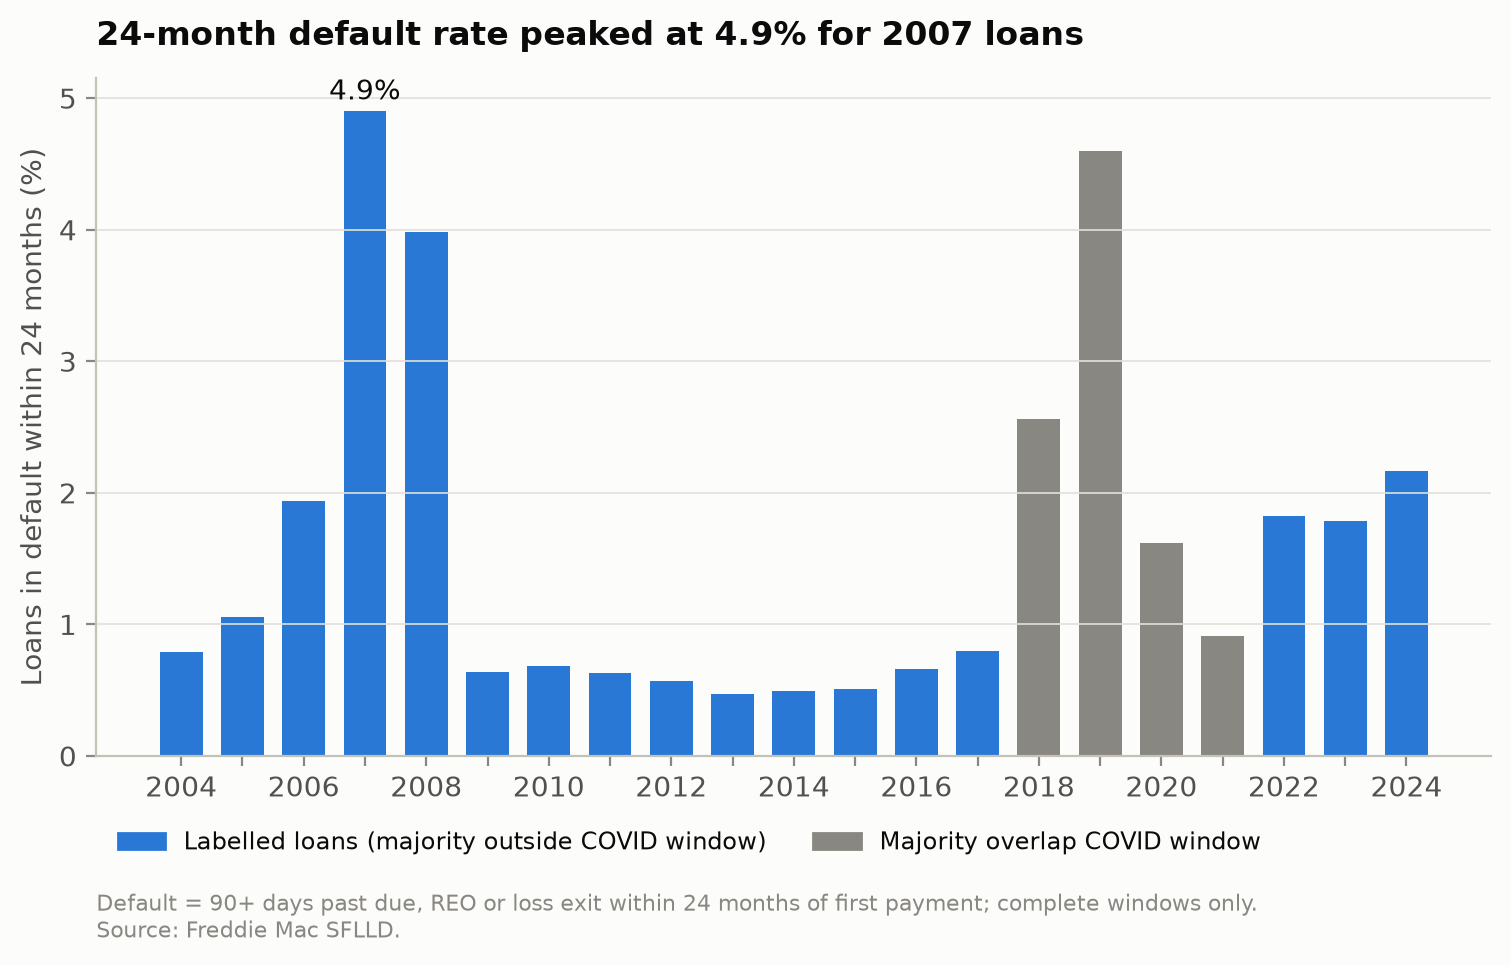
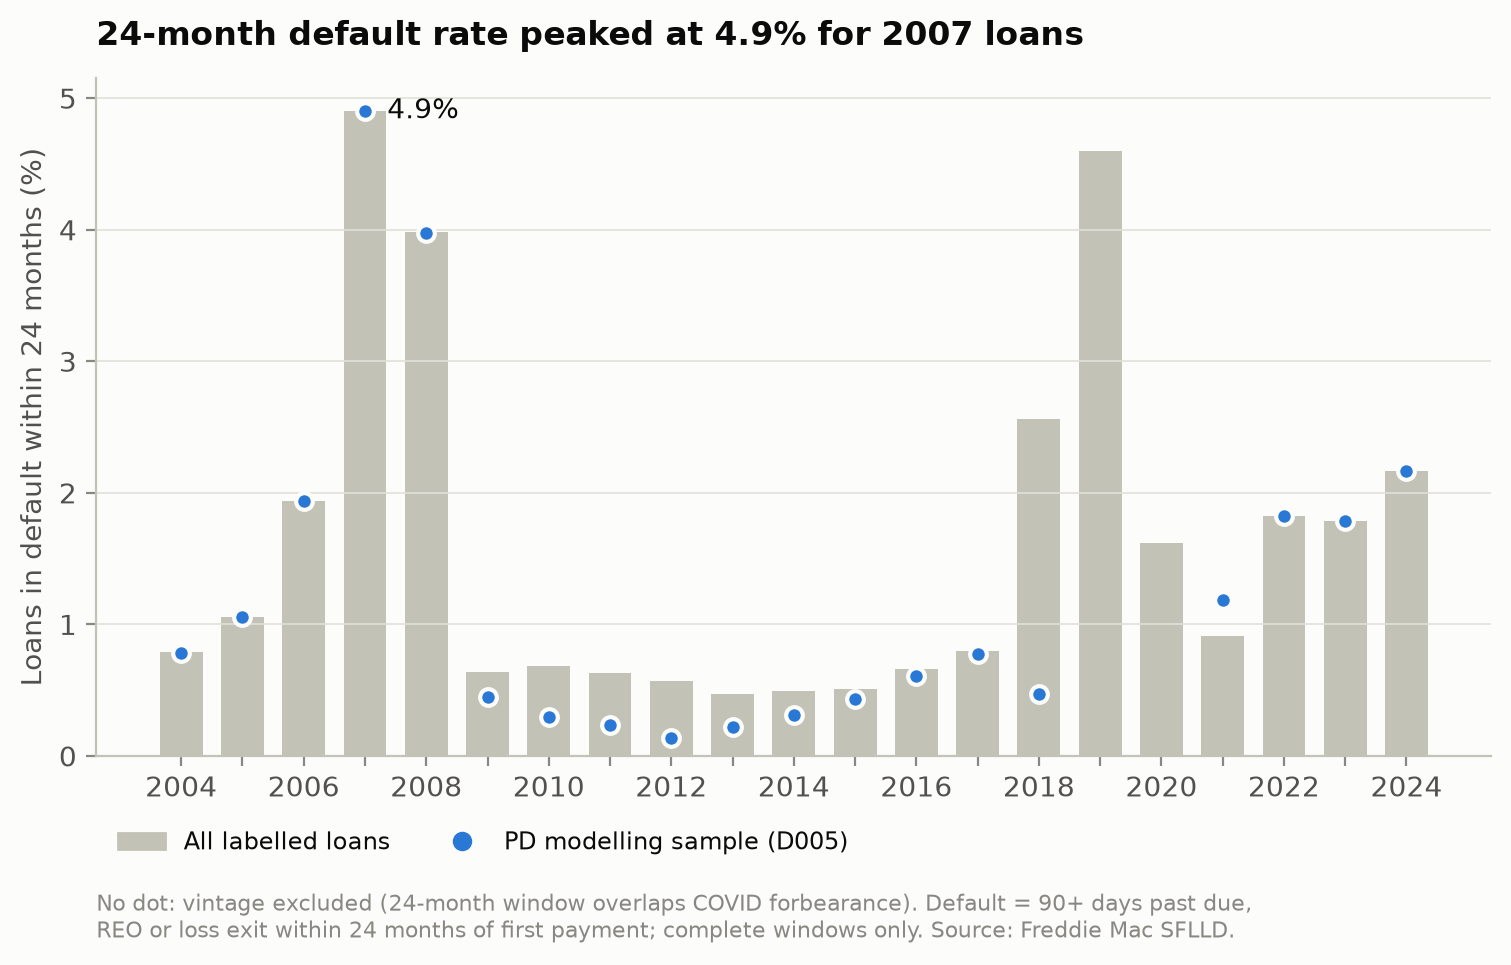
Add information-availability lag to exposure; show PD-sample default rates (D011)

Changed region(s): [[0.0933, 0.0622, 0.9643, 0.8083], [0.0622, 0.8394, 0.8398, 0.9948]]

diff --git a/src/climrisk/viz/eda.py b/src/climrisk/viz/eda.py
@@ -112,7 +112,9 @@ def default_by_vintage(con: duckdb.DuckDBPyConnection) -> list[tuple]:
                count(default_24m) AS labelled,
                sum(default_24m) AS defaults,
                100.0 * avg(default_24m) AS default_rate_pct,
-               avg(overlaps_covid::INT) > 0.5 AS covid_window  -- most loans excluded
+               avg(overlaps_covid::INT) > 0.5 AS covid_window,  -- most loans excluded
+               count(*) FILTER (WHERE in_pd_sample) AS pd_loans,
+               100.0 * avg(default_24m) FILTER (WHERE in_pd_sample) AS pd_default_rate_pct
         FROM loans GROUP BY vintage HAVING count(default_24m) > 0 ORDER BY vintage
     """).fetchall()
 
@@ -223,28 +225,46 @@ def _save(fig, path: Path) -> None:
 
 
 def fig_default_by_vintage(rows: list[tuple], path: Path) -> None:
+    """Bars: all labelled loans. Dots: PD modelling sample (the population the models use)."""
+    from matplotlib.lines import Line2D
     from matplotlib.patches import Patch
 
     fig, ax = plt.subplots(figsize=(9, 4.4))
     vintages = [r[0] for r in rows]
-    colors = [COLORS["muted"] if r[4] else COLORS["focus"] for r in rows]
-    ax.bar(vintages, [r[3] for r in rows], color=colors, width=0.7)
-    peak = max((r for r in rows if not r[4]), key=lambda r: r[3])
+    ax.bar(vintages, [r[3] for r in rows], color=COLORS["axis"], width=0.7, zorder=1)
+    pd_rows = [r for r in rows if r[5] and r[6] is not None]
+    ax.scatter(
+        [r[0] for r in pd_rows],
+        [r[6] for r in pd_rows],
+        s=36,
+        color=COLORS["focus"],
+        edgecolors=COLORS["surface"],
+        linewidths=1.5,
+        zorder=3,
+    )
+    peak = max(pd_rows, key=lambda r: r[6])
     ax.annotate(
-        f"{peak[3]:.1f}%",
-        (peak[0], peak[3]),
-        xytext=(0, 4),
+        f"{peak[6]:.1f}%",
+        (peak[0], peak[6]),
+        xytext=(8, 0),
         textcoords="offset points",
-        ha="center",
+        va="center",
         color=COLORS["ink"],
     )
-    ax.set_title(f"24-month default rate peaked at {peak[3]:.1f}% for {peak[0]} loans")
+    ax.set_title(f"24-month default rate peaked at {peak[6]:.1f}% for {peak[0]} loans")
     ax.set_ylabel("Loans in default within 24 months (%)")
     ax.set_xticks(vintages, [str(v) if v % 2 == 0 else "" for v in vintages])
     ax.legend(
         handles=[
-            Patch(color=COLORS["focus"], label="Labelled loans (majority outside COVID window)"),
-            Patch(color=COLORS["muted"], label="Majority overlap COVID window"),
+            Patch(color=COLORS["axis"], label="All labelled loans"),
+            Line2D(
+                [],
+                [],
+                marker="o",
+                linestyle="",
+                color=COLORS["focus"],
+                label="PD modelling sample (D005)",
+            ),
         ],
         loc="upper left",
         bbox_to_anchor=(0, -0.08),
@@ -254,9 +274,9 @@ def fig_default_by_vintage(rows: list[tuple], path: Path) -> None:
     ax.text(
         0,
         -0.2,
-        "Default = 90+ days past due, REO or loss exit within 24 months of "
-        "first payment; complete windows only.\n"
-        "Source: Freddie Mac SFLLD.",
+        "No dot: vintage excluded (24-month window overlaps COVID forbearance). Default = 90+ "
+        "days past due,\nREO or loss exit within 24 months of first payment; complete windows "
+        "only. Source: Freddie Mac SFLLD.",
         va="top",
         transform=ax.transAxes,
         color=COLORS["muted"],
@@ -491,9 +511,17 @@ def run(
         "## 1. Default rate by vintage",
         f"![Default rate by vintage]({rel / 'fig1_default_by_vintage.png'})",
         md_table(
-            ["vintage", "labelled", "defaults", "default_rate_pct", "covid_window"],
+            [
+                "vintage",
+                "labelled",
+                "defaults",
+                "default_rate_pct",
+                "covid_window",
+                "pd_loans",
+                "pd_default_rate_pct",
+            ],
             vintage,
-            {3: pct},
+            {3: pct, 6: pct},
         ),
         "## 2. Climate disasters by year",
         f"![Disasters by year]({rel / 'fig2_disasters_by_year.png'})",

diff --git a/tests/test_climate.py b/tests/test_climate.py
@@ -55,7 +55,12 @@ def fema_csv() -> str:
 
 def config() -> dict:
     cfg = climate.load_config()
-    cfg["exposure"] = {"lookback_months": 3, "grid_start": "2017-06-01", "grid_end": "2018-01-01"}
+    cfg["exposure"] = {
+        "lookback_months": 3,
+        "availability_lag_months": 0,
+        "grid_start": "2017-06-01",
+        "grid_end": "2018-01-01",
+    }
     return cfg
 
 
@@ -145,3 +150,20 @@ def test_post_2010_county_codes_are_recoded(built):
 def test_manual_zip3_follows_its_county(built):
     rows = climate_rows(built, "772")  # Houston P.O. boxes -> Harris County
     assert rows[date(2017, 9, 1)][0] == pytest.approx(1.0)
+
+
+def test_availability_lag_delays_exposure(tmp_path):
+    raw, geo = tmp_path / "raw", tmp_path / "geo"
+    raw.mkdir()
+    (raw / "crosswalk.txt").write_text(CROSSWALK)
+    (raw / "fema.csv").write_text(fema_csv())
+    census.parse(raw / "crosswalk.txt", geo / "zcta_county.parquet")
+    fema.parse(raw / "fema.csv", tmp_path / "declarations.parquet")
+    cfg = config()
+    cfg["exposure"]["availability_lag_months"] = 1
+    out = tmp_path / "processed"
+    climate.run(geo, tmp_path / "declarations.parquet", out, tmp_path / "s.md", cfg)
+    exposure = {m: r[4] for m, r in climate_rows(out, "770").items()}
+    assert exposure[date(2017, 9, 1)] == pytest.approx(0)
+    assert exposure[date(2017, 10, 1)] == pytest.approx(2 / 3)
+    assert exposure[date(2018, 1, 1)] == pytest.approx(2 / 3)  # September still counts

diff --git a/src/climrisk/features/climate.py b/src/climrisk/features/climate.py
@@ -14,7 +14,7 @@ Outputs:
         zip3, month,
         hit_share_<def>   share of the ZIP3's housing in counties hit that month (0-1)
         events_<def>      expected number of disasters hitting a home that month
-        exposure_<def>    sum of events_<def> over the previous lookback_months
+        exposure_<def>    lagged rolling sum of events_<def> (D011)
     reports/climate_summary.md
 for <def> in {main, broad} (configs/climate.yaml).
 
@@ -105,6 +105,7 @@ WHERE declaration_type IN ({sql_codes(cfg["events"]["declaration_types"])})
 def climate_query(cfg: dict) -> str:
     e = cfg["exposure"]
     lookback = int(e["lookback_months"])
+    lag = int(e.get("availability_lag_months", 0))
     hits = []
     for d in DEFINITIONS:
         hits.append(f"""
@@ -128,7 +129,7 @@ hits_{d} AS (
     )
     exposure = ",\n    ".join(
         f"coalesce(sum(events_{d}) OVER (PARTITION BY zip3 ORDER BY month "
-        f"ROWS BETWEEN {lookback} PRECEDING AND 1 PRECEDING), 0) AS exposure_{d}"
+        f"ROWS BETWEEN {lookback + lag} PRECEDING AND {lag + 1} PRECEDING), 0) AS exposure_{d}"
         for d in DEFINITIONS
     )
     return f"""

diff --git a/tests/test_eda.py b/tests/test_eda.py
@@ -101,3 +101,19 @@ def test_run_writes_all_figures_and_tables(processed, tmp_path):
     ]
     assert report.read_text().count("![") == 5
     assert "| vintage |" in report.read_text()
+
+
+def test_vintage_rates_separate_labelled_and_pd_populations():
+    with duckdb.connect() as con:
+        con.execute("""
+            CREATE TABLE loans AS SELECT * FROM (VALUES
+                (2007, 1, false, true), (2007, 0, false, true),
+                (2007, 1, false, false), (2007, NULL, false, false),
+                (2020, 0, true, false))
+                l(vintage, default_24m, overlaps_covid, in_pd_sample)
+        """)
+        rows = eda.default_by_vintage(con)
+    assert rows[0][1:3] == (3, 2)
+    assert rows[0][3] == pytest.approx(200 / 3)
+    assert rows[0][5:] == (2, 50.0)
+    assert rows[1][5:] == (0, None)

diff --git a/reports/eda.md b/reports/eda.md
@@ -6,29 +6,29 @@ Generated by `python -m climrisk.viz.eda`. Raw descriptive patterns; causal esti
 
 ![Default rate by vintage](figures/fig1_default_by_vintage.png)
 
-| vintage | labelled | defaults | default_rate_pct | covid_window |
-|---|---|---|---|---|
-| 2004 | 49935 | 394 | 0.79 | False |
-| 2005 | 49939 | 526 | 1.05 | False |
-| 2006 | 49930 | 968 | 1.94 | False |
-| 2007 | 49919 | 2449 | 4.91 | False |
-| 2008 | 49891 | 1986 | 3.98 | False |
-| 2009 | 49898 | 317 | 0.64 | False |
-| 2010 | 49930 | 343 | 0.69 | False |
-| 2011 | 49898 | 316 | 0.63 | False |
-| 2012 | 49897 | 284 | 0.57 | False |
-| 2013 | 49930 | 234 | 0.47 | False |
-| 2014 | 49913 | 247 | 0.49 | False |
-| 2015 | 49953 | 253 | 0.51 | False |
-| 2016 | 49930 | 330 | 0.66 | False |
-| 2017 | 49896 | 397 | 0.80 | False |
-| 2018 | 49869 | 1279 | 2.56 | True |
-| 2019 | 49875 | 2292 | 4.60 | True |
-| 2020 | 49876 | 807 | 1.62 | True |
-| 2021 | 49886 | 456 | 0.91 | True |
-| 2022 | 49737 | 908 | 1.83 | False |
-| 2023 | 49719 | 886 | 1.78 | False |
-| 2024 | 7434 | 161 | 2.17 | False |
+| vintage | labelled | defaults | default_rate_pct | covid_window | pd_loans | pd_default_rate_pct |
+|---|---|---|---|---|---|---|
+| 2004 | 49935 | 394 | 0.79 | False | 49860 | 0.78 |
+| 2005 | 49939 | 526 | 1.05 | False | 49890 | 1.05 |
+| 2006 | 49930 | 968 | 1.94 | False | 49891 | 1.93 |
+| 2007 | 49919 | 2449 | 4.91 | False | 49875 | 4.90 |
+| 2008 | 49891 | 1986 | 3.98 | False | 49865 | 3.98 |
+| 2009 | 49898 | 317 | 0.64 | False | 44542 | 0.45 |
+| 2010 | 49930 | 343 | 0.69 | False | 35307 | 0.30 |
+| 2011 | 49898 | 316 | 0.63 | False | 34449 | 0.23 |
+| 2012 | 49897 | 284 | 0.57 | False | 32520 | 0.14 |
+| 2013 | 49930 | 234 | 0.47 | False | 35551 | 0.22 |
+| 2014 | 49913 | 247 | 0.49 | False | 42618 | 0.31 |
+| 2015 | 49953 | 253 | 0.51 | False | 45927 | 0.43 |
+| 2016 | 49930 | 330 | 0.66 | False | 47400 | 0.61 |
+| 2017 | 49896 | 397 | 0.80 | False | 48018 | 0.77 |
+| 2018 | 49869 | 1279 | 2.56 | True | 3405 | 0.47 |
+| 2019 | 49875 | 2292 | 4.60 | True | 0 |  |
+| 2020 | 49876 | 807 | 1.62 | True | 0 |  |
+| 2021 | 49886 | 456 | 0.91 | True | 7934 | 1.18 |
+| 2022 | 49737 | 908 | 1.83 | False | 49735 | 1.83 |
+| 2023 | 49719 | 886 | 1.78 | False | 49719 | 1.78 |
+| 2024 | 7434 | 161 | 2.17 | False | 7434 | 2.17 |
 
 ## 2. Climate disasters by year
 
@@ -170,8 +170,8 @@ Generated by `python -m climrisk.viz.eda`. Raw descriptive patterns; causal esti
 
 | exposure_band | loans | defaults | default_rate_pct |
 |---|---|---|---|
-| 0: none | 321916 | 3962 | 1.23 |
-| 1: (0, 0.5] | 74551 | 987 | 1.32 |
-| 2: (0.5, 1.5] | 189862 | 2434 | 1.28 |
-| 3: (1.5, 3] | 120005 | 1640 | 1.37 |
-| 4: >3 | 27392 | 848 | 3.10 |
+| 0: none | 320983 | 3943 | 1.23 |
+| 1: (0, 0.5] | 74094 | 992 | 1.34 |
+| 2: (0.5, 1.5] | 190833 | 2500 | 1.31 |
+| 3: (1.5, 3] | 120669 | 1572 | 1.30 |
+| 4: >3 | 27147 | 864 | 3.18 |

diff --git a/DECISIONS.md b/DECISIONS.md
@@ -201,7 +201,8 @@ Record the date, context, alternatives, rationale and consequences for each deci
 
 - Use expected qualifying disasters per home over the preceding 120 months,
   weighted by ZIP3-county housing allocation; exclude the current month.
-- Grid starts January 1990, providing a full lookback from January 2000 onward.
+- Grid starts January 1990; with the three-month availability lag (D011), a full
+  120-month lookback is available from April 2000 onward.
 - The user reports NRI download restrictions from Switzerland; these have not
   been independently reproduced. A recent NRI snapshot also cannot represent
   information contemporaneously available for early loan vintages.
@@ -212,3 +213,15 @@ Record the date, context, alternatives, rationale and consequences for each deci
   at origination. Assess declaration-date lags and historical-weight sensitivity.
 - ZCTA housing counts approximate USPS ZIP geography. ZIP3 aggregation cannot
   identify which individual properties were affected or establish causal effects.
+
+## D011 — Information availability
+
+- Exposure excludes the current month and the three most recent completed months
+  (`availability_lag_months: 3`), allowing for FEMA county additions after an event.
+- Exact window at month t: t-123 through t-4 inclusive (120 months). This conservative
+  boundary follows the lagged rolling-window implementation; it does not include t-3.
+- Census 2010 weights and the current FEMA file are used for all years: the analysis
+  is retrospective, not a real-time replication of what lenders knew. A fixed lag
+  does not reconstruct historical declaration revisions or guarantee availability.
+- Declaration-based exposure reflects administrative decisions as well as physical
+  risk; a physical measure (coastal counties / NOAA hurricane tracks) is planned for Phase 6.

diff --git a/README.md b/README.md
@@ -141,7 +141,7 @@ Outputs are `data/processed/zip3_county_weights.parquet` and
 
 The main disaster definition requires household assistance; the broad definition
 adds storm types without that requirement. Exposure sums weighted events over the
-previous 120 months, excluding the current month. Housing weights use Census 2010
+120-month window ending four months before the measurement month (D011). Housing weights use Census 2010
 HUPT housing counts for each ZCTA-county part. Static 2010 weights and revised
 FEMA declarations remain retrospective inputs; see D002 and D009-D010 for limitations.
 NRI is reserved for a potential later robustness analysis.

diff --git a/reports/climate_summary.md b/reports/climate_summary.md
@@ -102,9 +102,9 @@ Generated by `python -m climrisk.features.climate`. Aggregate statistics only.
 
 | month | p50 | p90 | max |
 |---|---|---|---|
-| 2005-01-01 | 0.72 | 2.64 | 6.51 |
+| 2005-01-01 | 0.73 | 2.68 | 6.51 |
 | 2015-01-01 | 0.0 | 1.93 | 4.78 |
-| 2025-01-01 | 0.03 | 2.0 | 7.0 |
+| 2025-01-01 | 0.02 | 2.0 | 6.0 |
 
 ## Freddie Mac loans whose ZIP3 has no weights
 
